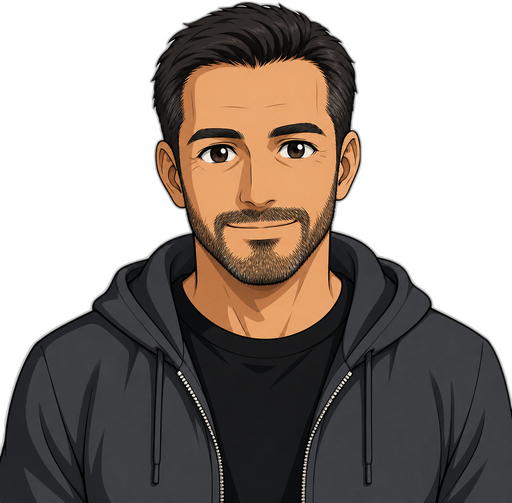
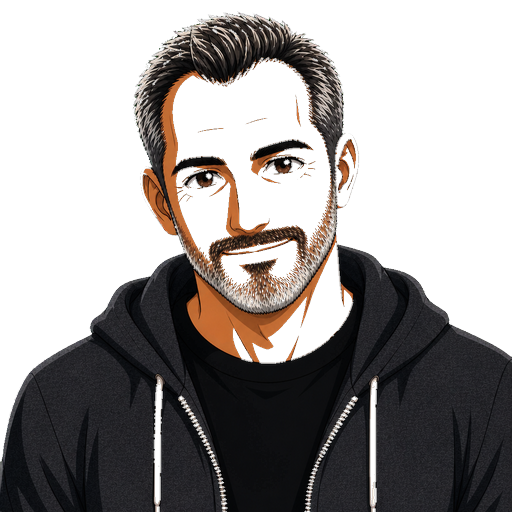
Update mascot likeness: denser salt-pepper beard, gray, hairline.
Regenerate the anime portrait from the real photo cues — denser short
beard with more white, gray streaks on top, slightly receding temples —
and cache-bust as build 20260817c.

diff --git a/index.html b/index.html
@@ -24,7 +24,7 @@
 <script>
 /* Bump __BUILD__ whenever study pages need a fresh fetch. Rewrites ?v= on
    every load so Safari and home-screen shells do not keep a stale copy. */
-window.__BUILD__ = "20260817a";
+window.__BUILD__ = "20260817c";
 (function () {
   /* Rewrite ?v= so index.html + japanese-data.js are fetched fresh. */
   try {
@@ -1856,7 +1856,7 @@ window.__BUILD__ = "20260817a";
     <path d="M64 15 A38 38 0 1 0 88 56" />
   </svg>
   <div class="masthead-inner">
-    <img class="mascot" src="mascot.png?v=20260817a" alt="" width="80" height="80"
+    <img class="mascot" src="mascot.png?v=20260817c" alt="" width="80" height="80"
       decoding="async" aria-hidden="true">
     <h1>トムさんの勉強ガイド <span class="jp" id="masthead-jp">みんなの日本語</span></h1>
     <a class="back-home" href="#/" id="backHome">
@@ -1920,7 +1920,7 @@ window.__BUILD__ = "20260817a";
   </div>
 </div>
 
-<script src="japanese-data.js?v=20260817a"></script>
+<script src="japanese-data.js?v=20260817c"></script>
 <script>
 /* ============================================================
    State
@@ -3270,7 +3270,7 @@ function renderHome() {
     <section class="home-landing">
       <div class="home-top">
         <div class="home-brand">
-          <img class="mascot" src="mascot.png?v=20260817a" alt="" width="72" height="72"
+          <img class="mascot" src="mascot.png?v=20260817c" alt="" width="72" height="72"
             decoding="async" aria-hidden="true">
           <h1 class="brand">トムさんの勉強ガイド</h1>
         </div>
